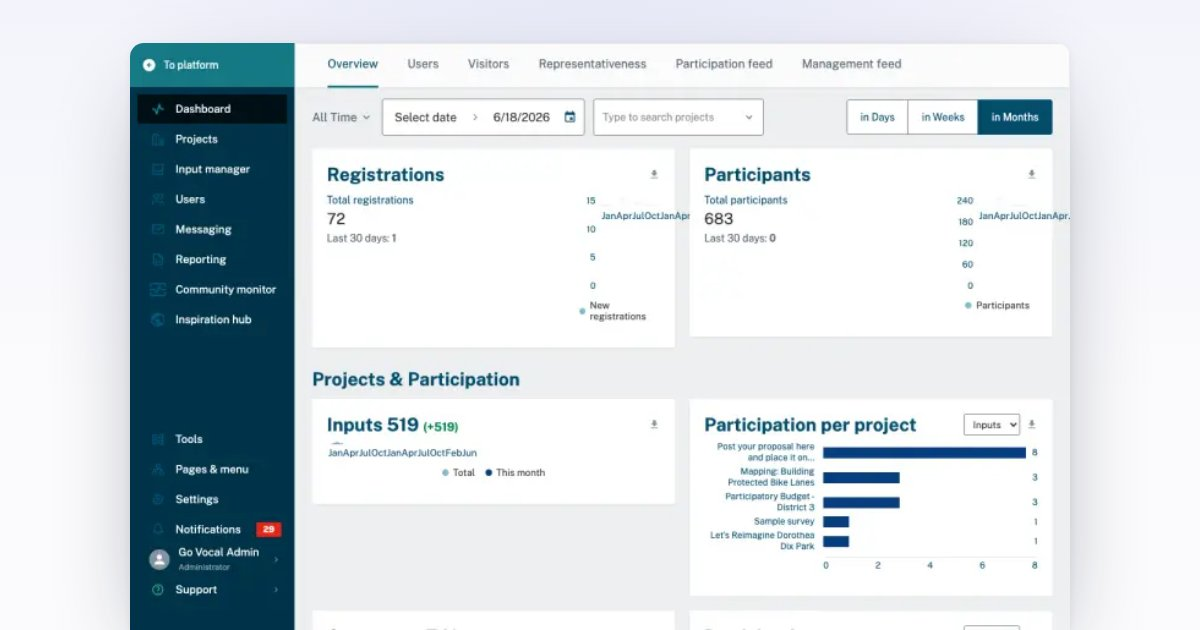
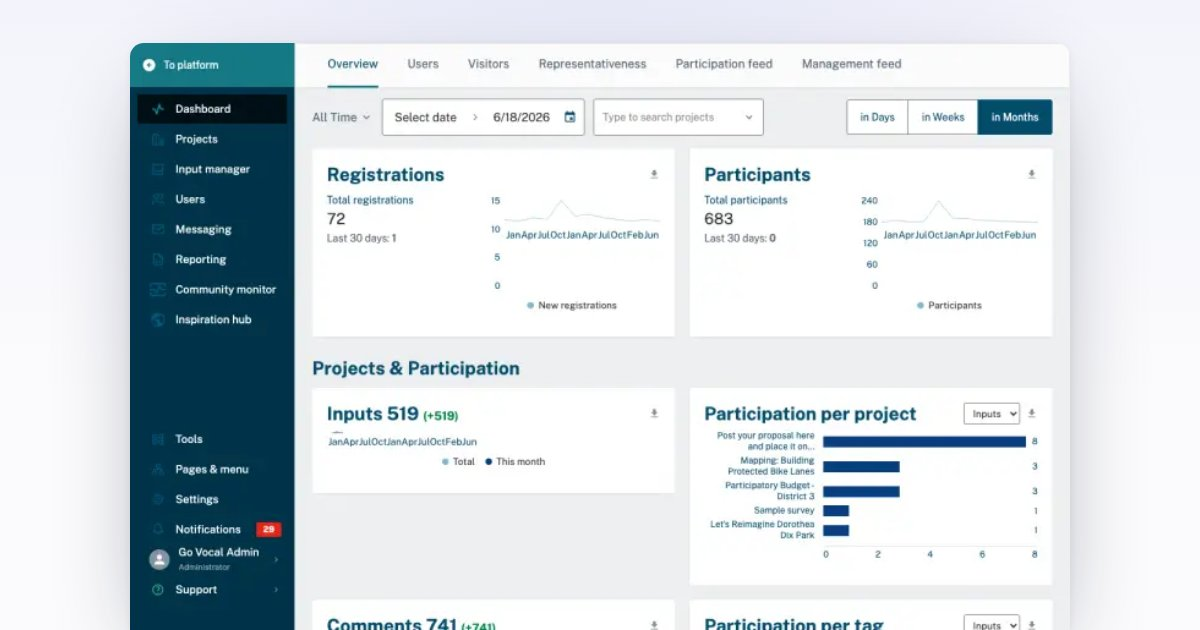
Dashboard: fix Visitors split-line cards + two-stat support (fidelity pass)
The Registrations/Participants cards on the Visitors tab squished the chart to a
sliver — the stat block's wide max (320px) hogged the column. Narrowed the db-split
left column (minmax 130-190) and made the chart column minmax(0,1fr) so the month
axis never crams. Added optional second stacked stat group to the line card
(data-lbl2/big2/sub2) so Registrations/Participants show Total + Registration/
Participation rate, matching bo-dash-visitors. Verified Overview + Users tabs are
faithful via screenshots.

diff --git a/pages/bo-dashboard/index.html b/pages/bo-dashboard/index.html
@@ -72,7 +72,9 @@
     .db-stat__lbl.db-stat__top { color: var(--gv-bo-primary); }
     .db-stat__lbl b { color: var(--gv-text-secondary); font-weight: 700; }
     /* Card split: stat/number block on the left, chart on the right. */
-    .db-split { display: grid; grid-template-columns: minmax(150px, 320px) 1fr; gap: 24px; align-items: start; }
+    /* Stat block (left, narrow) + chart (right, fills). minmax(0,1fr) lets the chart
+       shrink with its container so the month axis never crams (Visitors bug fix). */
+    .db-split { display: grid; grid-template-columns: minmax(130px, 190px) minmax(0, 1fr); gap: 24px; align-items: start; }
     .db-statgrid { display: grid; grid-template-columns: 1fr 1fr; gap: 18px 24px; }
     .db-bigblock { padding-top: 4px; }
     .db-split__chart { min-width: 0; }
@@ -325,8 +327,8 @@
           </div>
           <div class="gv-bo-chartcard db-span-12" data-chart="pie" data-title="Traffic sources"
                data-pie='[["Direct entry (100%)",100,"var(--ch-blue)"]]'></div>
-          <div class="gv-bo-chartcard db-span-6" data-chart="line" data-split data-points="0,0,0,0,0,0,0,0,0,0,0,0" data-title="Registrations" data-lbl="Total registrations" data-big="0" data-sub="Last 30 days <b>0</b><br>Registration rate <b>0%</b>" data-series="New registrations"></div>
-          <div class="gv-bo-chartcard db-span-6" data-chart="line" data-split data-points="0,1,1,2,3,4,5,6,7,9,10,11" data-title="Participants" data-lbl="Total participants" data-big="11" data-sub="Last 30 days <b>0</b><br>Participation rate <b>37%</b>" data-series="Participants"></div>
+          <div class="gv-bo-chartcard db-span-6" data-chart="line" data-split data-points="0,0,0,0,0,0,0,0,0,0,0,0" data-title="Registrations" data-lbl="Total registrations" data-big="0" data-sub="Last 30 days: <b>0</b>" data-lbl2="Registration rate" data-big2="0%" data-sub2="Last 30 days: <b>0%</b>" data-series="New registrations"></div>
+          <div class="gv-bo-chartcard db-span-6" data-chart="line" data-split data-points="0,1,1,2,3,4,5,6,7,9,10,11" data-title="Participants" data-lbl="Total participants" data-big="11" data-sub="Last 30 days: <b>0</b>" data-lbl2="Participation rate" data-big2="37%" data-sub2="Last 30 days: <b>0%</b>" data-series="Participants"></div>
           <div class="gv-bo-chartcard db-span-6" data-chart="pie" data-title="Language"
                data-pie='[["EN (98%)",98,"var(--ch-blue)"],["ES-ES (2%)",2,"var(--ch-teal)"]]'></div>
           <div class="gv-bo-chartcard db-span-6" data-chart="pie" data-title="Device Types"
@@ -480,8 +482,12 @@
         const t = card.dataset.chart, title = card.dataset.title;
         let body = "";
         if (t === "line") {
+          const statBlock = (lbl, num, sub, mt) =>
+            `<div class="db-bignum"${mt ? ' style="margin-top:16px"' : ""}><span class="db-bignum__lbl">${lbl || ""}</span><span class="db-bignum__big">${num}</span><span class="db-bignum__sub">${sub || ""}</span></div>`;
+          // Optional second stacked stat group (e.g. Visitors → Registration/Participation rate).
           const big = card.dataset.big
-            ? `<div class="db-bignum"><span class="db-bignum__lbl">${card.dataset.lbl || ""}</span><span class="db-bignum__big">${card.dataset.big}</span><span class="db-bignum__sub">${card.dataset.sub || ""}</span></div>`
+            ? statBlock(card.dataset.lbl, card.dataset.big, card.dataset.sub) +
+              (card.dataset.big2 ? statBlock(card.dataset.lbl2, card.dataset.big2, card.dataset.sub2, true) : "")
             : (card.dataset.num ? `<div class="db-bignum">${card.dataset.num}</div>` : "");
           const lineColors = ["var(--ch-line)", "var(--ch-teal)", "var(--ch-red)"];
           const chart = `${lineSVG(card.dataset.points)}<div class="ch-legend">${(card.dataset.series || "").split(" · ").map((s, i) => `<span><i style="background:${lineColors[i] || "var(--ch-blue)"}"></i>${s}</span>`).join("")}</div>`;
